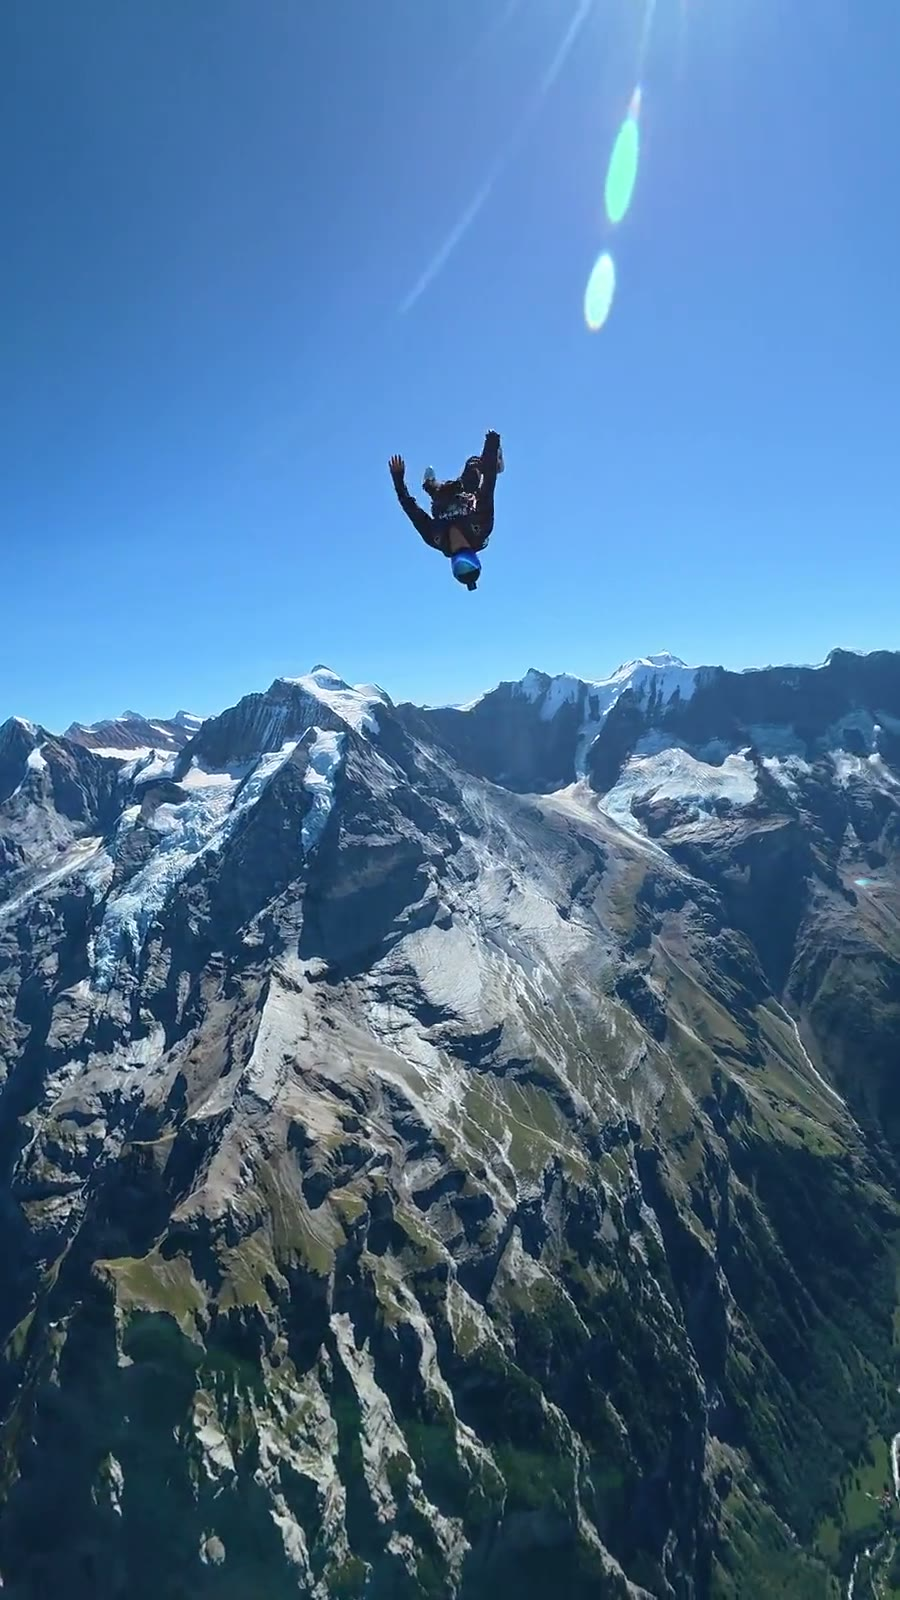
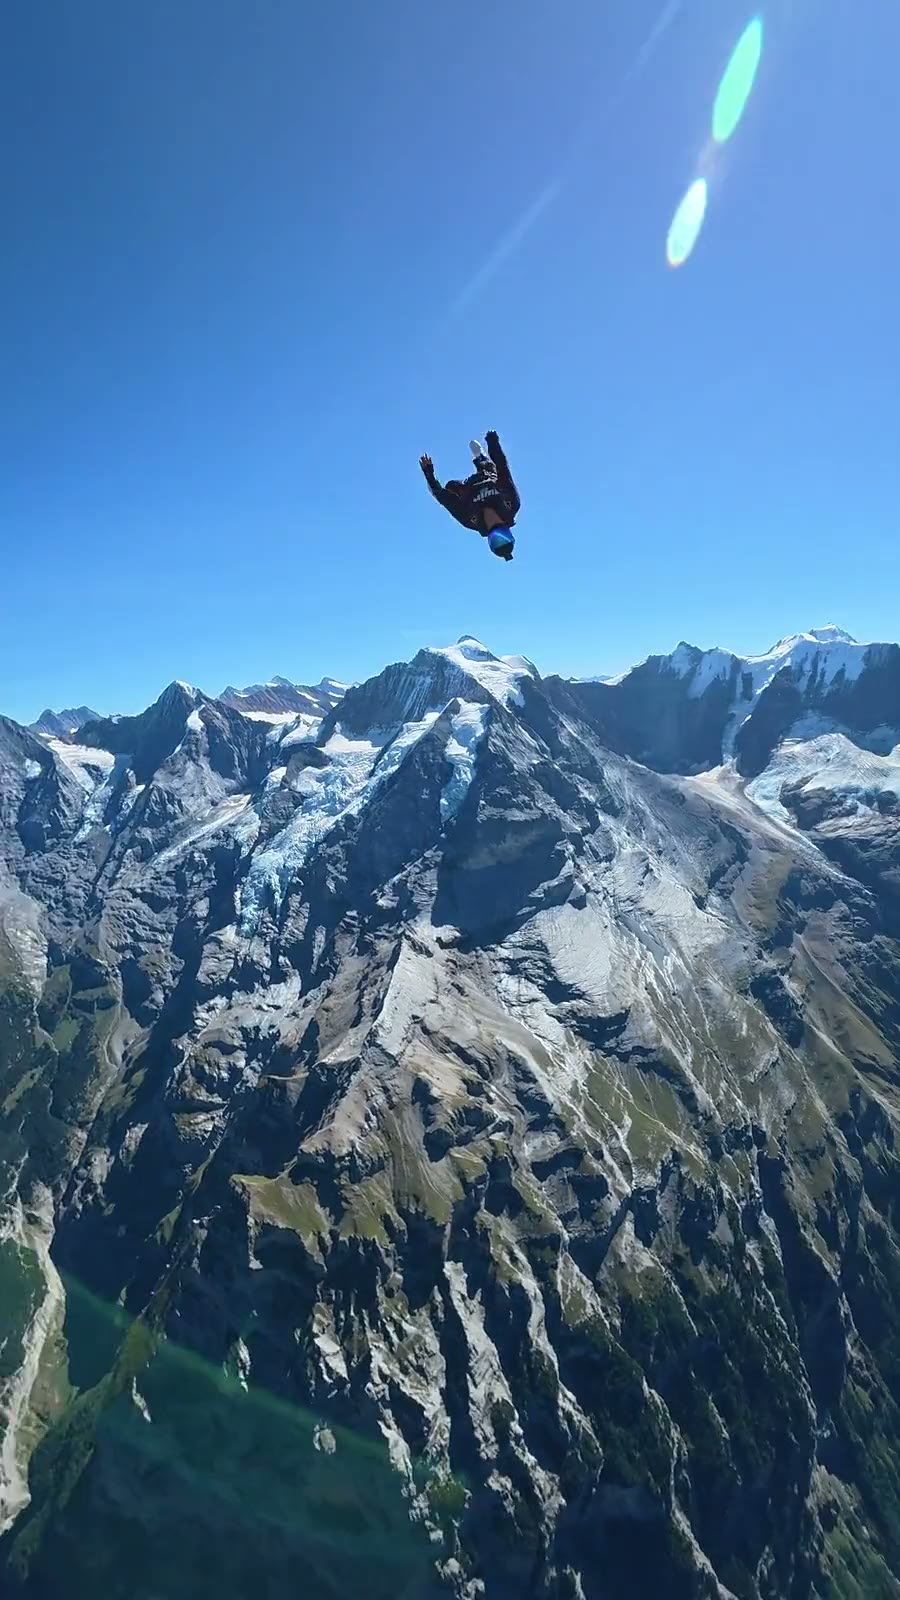
Update site: header flash fix, intro line
Claude-Session: https://claude.ai/code/session_01HnMN84AXEkouKHAHcF2M27

diff --git a/index.html b/index.html
@@ -8,7 +8,7 @@
 <meta name="twitter:card" content="summary_large_image"><meta name="theme-color" content="#0A0A0B">
 <link rel="preconnect" href="https://fonts.googleapis.com"><link rel="preconnect" href="https://fonts.gstatic.com" crossorigin>
 <link rel="stylesheet" href="https://fonts.googleapis.com/css2?family=Archivo:wght@400;500;700;900&family=Inter:wght@300;400&display=swap">
-<link rel="stylesheet" href="assets/site.css?v=1795553301">
+<link rel="stylesheet" href="assets/site.css?v=1795553511">
 <script>document.documentElement.className='js';addEventListener('DOMContentLoaded',function(){requestAnimationFrame(function(){requestAnimationFrame(function(){document.documentElement.classList.add('ready')})})});</script>
 </head><body>
 <div class="curtain" aria-hidden="true"></div><div class="progress" aria-hidden="true"></div>
@@ -16,7 +16,7 @@
 <main>
 <section class="hero">
   <div class="hero-fade" aria-hidden="true">
-<div class="hs on"><video data-hero="media/hero-9" data-v="1795553301" muted playsinline preload="none"></video></div>
+<div class="hs on"><video data-hero="media/hero-9" data-v="1795553511" muted playsinline preload="none"></video></div>
   </div>
   <div class="hero-shade"></div>
   <div class="label cue">Scroll</div>
@@ -39,7 +39,7 @@
 </div></section>
 
 <section class="statement"><div class="wrap">
-  <p>I jump out of planes, helicopters and hot air balloons and film it for brands.</p>
+  <p>I jump out of anything that flies, and I film it for brands.</p>
   <a class="link label r" href="brand-work.html">See the brand work</a>
 </div></section>
 
@@ -75,5 +75,5 @@
   <div class="ig label"><a href="https://www.instagram.com/kyle.zellner/" target="_blank" rel="noopener">Watch on Instagram</a></div>
 </div>
 <script src="assets/vendor/gsap.min.js"></script><script src="assets/vendor/ScrollTrigger.min.js"></script>
-<script src="assets/site.js?v=1795553301"></script>
+<script src="assets/site.js?v=1795553511"></script>
 </body></html>

diff --git a/brand-work.html b/brand-work.html
@@ -8,7 +8,7 @@
 <meta name="twitter:card" content="summary_large_image"><meta name="theme-color" content="#0A0A0B">
 <link rel="preconnect" href="https://fonts.googleapis.com"><link rel="preconnect" href="https://fonts.gstatic.com" crossorigin>
 <link rel="stylesheet" href="https://fonts.googleapis.com/css2?family=Archivo:wght@400;500;700;900&family=Inter:wght@300;400&display=swap">
-<link rel="stylesheet" href="assets/site.css?v=1795553301">
+<link rel="stylesheet" href="assets/site.css?v=1795553511">
 <script>document.documentElement.className='js';addEventListener('DOMContentLoaded',function(){requestAnimationFrame(function(){requestAnimationFrame(function(){document.documentElement.classList.add('ready')})})});</script>
 </head><body>
 <div class="curtain" aria-hidden="true"></div><div class="progress" aria-hidden="true"></div>
@@ -118,5 +118,5 @@
   <div class="ig label"><a href="https://www.instagram.com/kyle.zellner/" target="_blank" rel="noopener">Watch on Instagram</a></div>
 </div>
 <script src="assets/vendor/gsap.min.js"></script><script src="assets/vendor/ScrollTrigger.min.js"></script>
-<script src="assets/site.js?v=1795553301"></script>
+<script src="assets/site.js?v=1795553511"></script>
 </body></html>

diff --git a/contact.html b/contact.html
@@ -8,7 +8,7 @@
 <meta name="twitter:card" content="summary_large_image"><meta name="theme-color" content="#0A0A0B">
 <link rel="preconnect" href="https://fonts.googleapis.com"><link rel="preconnect" href="https://fonts.gstatic.com" crossorigin>
 <link rel="stylesheet" href="https://fonts.googleapis.com/css2?family=Archivo:wght@400;500;700;900&family=Inter:wght@300;400&display=swap">
-<link rel="stylesheet" href="assets/site.css?v=1795553301">
+<link rel="stylesheet" href="assets/site.css?v=1795553511">
 <script>document.documentElement.className='js';addEventListener('DOMContentLoaded',function(){requestAnimationFrame(function(){requestAnimationFrame(function(){document.documentElement.classList.add('ready')})})});</script>
 </head><body>
 <div class="curtain" aria-hidden="true"></div><div class="progress" aria-hidden="true"></div>
@@ -54,5 +54,5 @@
   <div class="ig label"><a href="https://www.instagram.com/kyle.zellner/" target="_blank" rel="noopener">Watch on Instagram</a></div>
 </div>
 <script src="assets/vendor/gsap.min.js"></script><script src="assets/vendor/ScrollTrigger.min.js"></script>
-<script src="assets/site.js?v=1795553301"></script>
+<script src="assets/site.js?v=1795553511"></script>
 </body></html>

diff --git a/projects.html b/projects.html
@@ -8,7 +8,7 @@
 <meta name="twitter:card" content="summary_large_image"><meta name="theme-color" content="#0A0A0B">
 <link rel="preconnect" href="https://fonts.googleapis.com"><link rel="preconnect" href="https://fonts.gstatic.com" crossorigin>
 <link rel="stylesheet" href="https://fonts.googleapis.com/css2?family=Archivo:wght@400;500;700;900&family=Inter:wght@300;400&display=swap">
-<link rel="stylesheet" href="assets/site.css?v=1795553301">
+<link rel="stylesheet" href="assets/site.css?v=1795553511">
 <script>document.documentElement.className='js';addEventListener('DOMContentLoaded',function(){requestAnimationFrame(function(){requestAnimationFrame(function(){document.documentElement.classList.add('ready')})})});</script>
 </head><body>
 <div class="curtain" aria-hidden="true"></div><div class="progress" aria-hidden="true"></div>
@@ -62,5 +62,5 @@
   <div class="ig label"><a href="https://www.instagram.com/kyle.zellner/" target="_blank" rel="noopener">Watch on Instagram</a></div>
 </div>
 <script src="assets/vendor/gsap.min.js"></script><script src="assets/vendor/ScrollTrigger.min.js"></script>
-<script src="assets/site.js?v=1795553301"></script>
+<script src="assets/site.js?v=1795553511"></script>
 </body></html>

diff --git a/assets/site.js b/assets/site.js
@@ -187,7 +187,16 @@
       var v = $('video', slides[i]);
       // the ?v= changes on every publish, so a phone never mixes a cached older cut with the new file
       var q = v.dataset.v ? '?v=' + v.dataset.v : '';
-      if (!v.src) { v.muted = true; v.poster = v.dataset.hero + '-' + kind + '.jpg' + q; v.src = v.dataset.hero + '-' + kind + '.mp4' + q; v.load(); }
+      if (!v.src) {
+        // iPhones paint a video black for a moment between its poster and its first frame. So the still sits
+        // behind the video as a background, and the video stays invisible until it is really showing frames.
+        var still = v.dataset.hero + '-' + kind + '.jpg' + q;
+        slides[i].style.backgroundImage = 'url("' + still + '")';
+        v.style.opacity = '0';
+        var show = function () { if (v.currentTime > 0.08) { v.style.opacity = '1'; v.removeEventListener('timeupdate', show); } };
+        v.addEventListener('timeupdate', show);
+        v.muted = true; v.src = v.dataset.hero + '-' + kind + '.mp4' + q; v.load();
+      }
       return v;
     };
     var first = prep(0);

diff --git a/assets/site.css b/assets/site.css
@@ -98,10 +98,10 @@ body::after{content:"";position:fixed;inset:-50%;z-index:90;pointer-events:none;
 .hero{position:relative;height:100svh;min-height:620px;overflow:hidden;background:var(--bg)}
 .hero-fade{position:absolute;inset:0;background:var(--panel)}
 @keyframes heroIn{from{opacity:0}to{opacity:1}}
-.js .hero-fade{animation:heroIn 1600ms var(--ease) both}
-.hs{position:absolute;inset:0;opacity:0;transition:opacity 450ms ease-in-out}
+/* no fade-in on the header: an opacity animation ending over a playing video makes iPhones flash black */
+.hs{position:absolute;inset:0;opacity:0;transition:opacity 450ms ease-in-out;background-size:cover;background-position:center}
 .hs.on{opacity:1}
-.hs video{position:absolute;inset:0;width:100%;height:100%;object-fit:cover;transform:scale(1.001)}
+.hs video{position:absolute;inset:0;width:100%;height:100%;object-fit:cover;transition:opacity 180ms linear}
 .hs.on video{animation:none}
 @keyframes heroDrift{from{transform:scale(1.001)}to{transform:scale(1.07)}}
 .hero-shade{position:absolute;inset:0;pointer-events:none;
